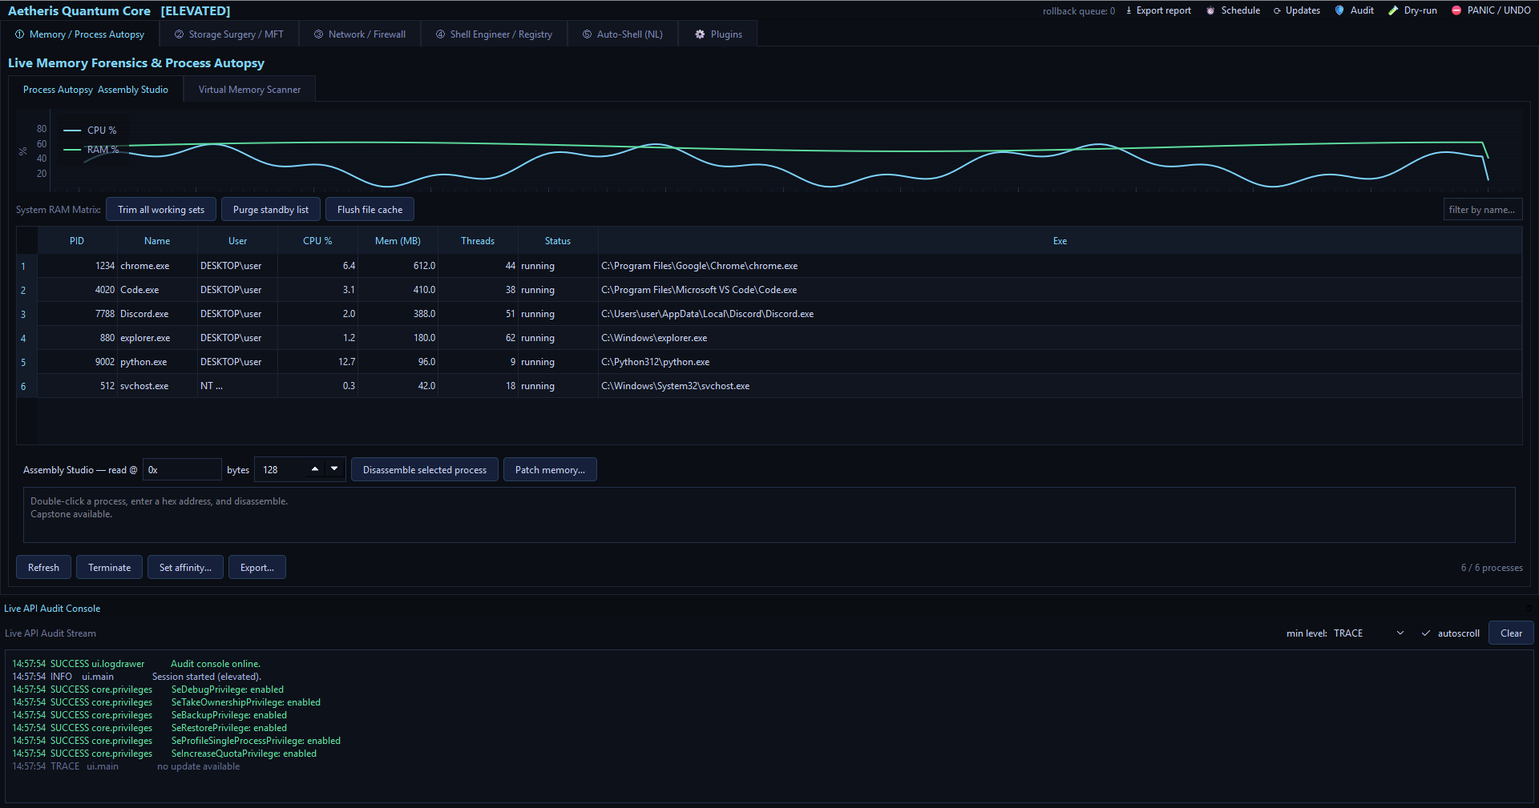
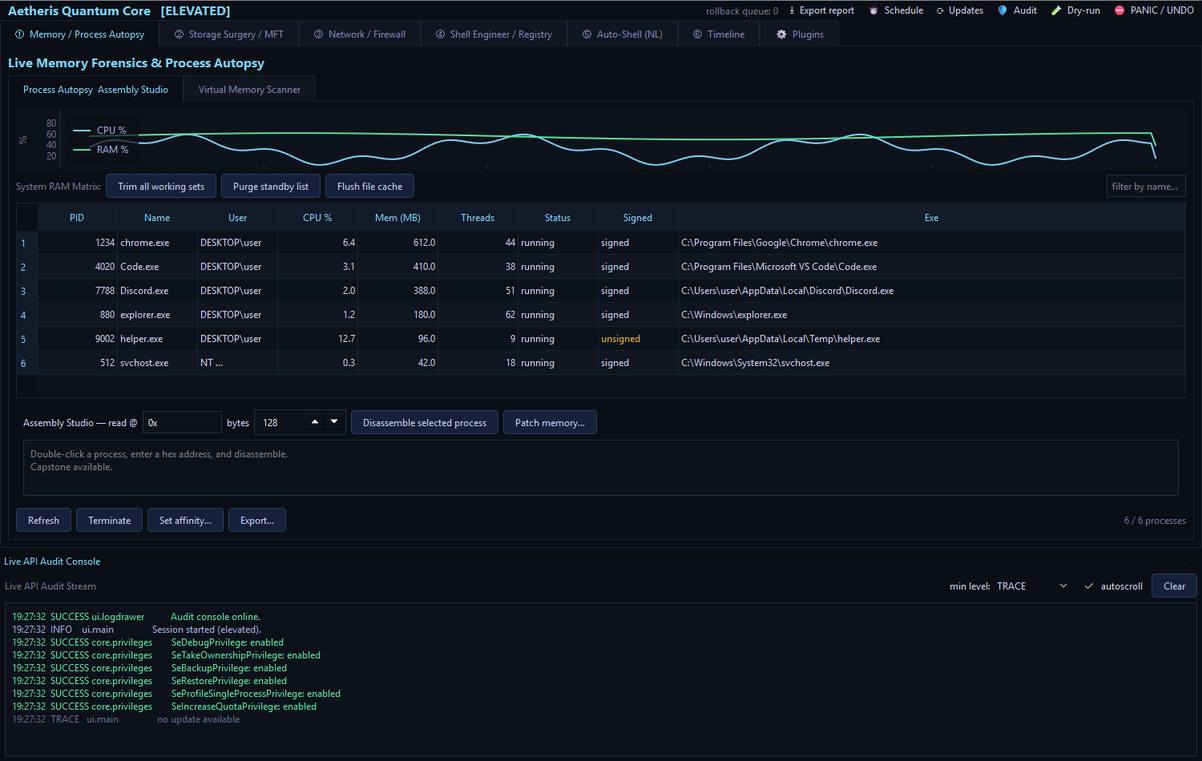
Refresh README + all screenshots for Phase 1-3 (8 shots + new features)
make_screenshots.py rewritten for the current UI: the Timeline tab shifted the
indices (Plugins is now widget(6), not (5)), and there are new panels to show.
Now captures 8 shots -- Memory (live Signed column), Storage tree-map, Network,
Service & Driver Inspector (unquoted-path candidate in red), Persistence Map,
Session Timeline (state diff), Auto-Shell, Plugins v2 gallery -- and the
walkthrough GIF cycles all eight. Old 04-shell/05-autoshell/06-plugins removed
(renumbered).

README: status blurb, walkthrough grid, layout tree, tests section (185),
feature-status table, and the Trust/Plugins prose updated for the persistent
audit log, dry-run, crash reporter, signing, and the four new modules.
ARCHITECTURE module map gains signing/services/taskaudit/persistence/timeline/
crashreport.

diff --git a/docs/make_screenshots.py b/docs/make_screenshots.py
@@ -3,7 +3,7 @@
 Render the Aetheris UI to the screenshots used in the README.
 
 Renders the *real* widgets (native Windows platform, so fonts render) but feeds
-each data-bearing tab **representative, non-identifying** data — so the images
+each data-bearing tab **representative, non-identifying** data -- so the images
 show the genuine app without leaking real process paths, usernames, or remote
 IPs from the machine that generated them.
 
@@ -14,9 +14,9 @@ The window is rendered off the visible desktop so nothing pops up on screen.
 """
 from __future__ import annotations
 
+import math
 import os
 import sys
-import math
 import time
 from pathlib import Path
 
@@ -28,12 +28,16 @@ sys.path.insert(0, str(REPO))
 OUT = REPO / "docs" / "screenshots"
 OUT.mkdir(parents=True, exist_ok=True)
 
-from PyQt6.QtWidgets import QApplication, QTabWidget          # noqa: E402
 from PyQt6.QtCore import QEventLoop                            # noqa: E402
-from aetheris.ui.mainwindow import MainWindow                 # noqa: E402
+from PyQt6.QtWidgets import QApplication, QTabWidget          # noqa: E402
+
+from aetheris.core import timeline as tl                      # noqa: E402
+from aetheris.core.persistence import PersistenceEntry        # noqa: E402
+from aetheris.core.services import ServiceInfo                # noqa: E402
 from aetheris.forensics.processes import ProcessInfo          # noqa: E402
 from aetheris.network.connections import Connection           # noqa: E402
 from aetheris.storage import mft                              # noqa: E402
+from aetheris.ui.mainwindow import MainWindow                 # noqa: E402
 
 app = QApplication(sys.argv)
 w = MainWindow()
@@ -56,10 +60,19 @@ def shot(name: str) -> None:
     print(f"saved {name}: {pm.width()}x{pm.height()}")
 
 
+def _inner_tab(widget, label: str) -> None:
+    """Switch a tab's inner QTabWidget to the sub-panel named ``label``."""
+    for tw in widget.findChildren(QTabWidget):
+        for i in range(tw.count()):
+            if tw.tabText(i) == label:
+                tw.setCurrentIndex(i)
+                return
+
+
 def main() -> None:
     pump(1.5)
 
-    # 1) Memory / Process Autopsy
+    # 1) Memory / Process Autopsy (note the live Authenticode "Signed" column)
     mem = w.tabs.widget(0)
     mem._timer.stop()
     mem._populate([
@@ -74,7 +87,8 @@ def main() -> None:
                     2.0, 388 * 2**20, 51, "running", "on", "on", "signed"),
         ProcessInfo(880, "explorer.exe", "DESKTOP\\user", r"C:\Windows\explorer.exe",
                     1.2, 180 * 2**20, 62, "running", "on", "on", "signed"),
-        ProcessInfo(9002, "python.exe", "DESKTOP\\user", r"C:\Python312\python.exe",
+        ProcessInfo(9002, "helper.exe", "DESKTOP\\user",
+                    r"C:\Users\user\AppData\Local\Temp\helper.exe",
                     12.7, 96 * 2**20, 9, "running", "on", "off", "unsigned"),
         ProcessInfo(512, "svchost.exe", "NT AUTHORITY\\SYSTEM",
                     r"C:\Windows\System32\svchost.exe",
@@ -105,12 +119,9 @@ def main() -> None:
         for name, size in kids:
             recs.append(R(idx, True, False, name, size, top_idx)); idx += 1
     st._show_mft(recs); st._build_treemap()
-    for tw in st.findChildren(QTabWidget):
-        for i in range(tw.count()):
-            if tw.tabText(i) in ("Tree-map", "Raw MFT Scan"):
-                tw.setCurrentIndex(i)
+    _inner_tab(st, "Tree-map")
     st.treemap.resize(1400, 560); st.treemap._relayout()
-    w.tabs.setCurrentIndex(1); pump(0.4); shot("02-storage-treemap.png")
+    w.tabs.setCurrentIndex(1); pump(0.5); shot("02-storage-treemap.png")
 
     # 3) Network
     net = w.tabs.widget(2)
@@ -134,26 +145,90 @@ def main() -> None:
     for i in range(120):
         net.throughput.push({"up": 40 + 20 * math.sin(i / 8),
                              "down": 420 + 120 * math.sin(i / 10)})
-    w.tabs.setCurrentIndex(2); pump(0.4); shot("03-network.png")
+    w.tabs.setCurrentIndex(2); pump(0.5); shot("03-network.png")
 
-    # 4) Shell / Registry
-    w.tabs.setCurrentIndex(3); pump(0.3); shot("04-shell.png")
+    # 4) Shell -> Services & Drivers (unquoted-path privesc finder in red)
+    shell = w.tabs.widget(3)
+    shell._services = [
+        ServiceInfo("Dnscache", "DNS Client", r"C:\Windows\System32\svchost.exe",
+                    r"C:\Windows\System32\svchost.exe", "auto", "service",
+                    "NT AUTHORITY\\NetworkService", "running", "signed", False),
+        ServiceInfo("AppUpdater", "App Updater", r'C:\Program Files\My App\upd.exe',
+                    r'C:\Program Files\My App\upd.exe', "auto", "service",
+                    "LocalSystem", "running", "signed", True),   # unquoted path
+        ServiceInfo("HelperSvc", "Vendor Helper",
+                    r"C:\Users\user\AppData\Local\Temp\helper.exe",
+                    r"C:\Users\user\AppData\Local\Temp\helper.exe", "auto", "service",
+                    "LocalSystem", "stopped", "unsigned", False),
+        ServiceInfo("disk", "Disk Driver", r"C:\Windows\System32\drivers\disk.sys",
+                    r"C:\Windows\System32\drivers\disk.sys", "boot", "driver", "",
+                    "loaded", "signed", False),
+        ServiceInfo("nvlddmkm", "NVIDIA Kernel", r"C:\Windows\System32\drivers\nvlddmkm.sys",
+                    r"C:\Windows\System32\drivers\nvlddmkm.sys", "manual", "driver", "",
+                    "not loaded", "signed", False),
+    ]
+    _inner_tab(shell, "Services & Drivers")
+    shell._apply_svc_filter()
+    w.tabs.setCurrentIndex(3); pump(0.4); shot("04-services.png")
 
-    # 5) Auto-Shell
+    # 5) Shell -> Persistence Map (unified autostart view)
+    shell._pm = [
+        PersistenceEntry("Run", "OneDrive",
+                         r"C:\Users\user\AppData\Local\Microsoft\OneDrive\OneDrive.exe /background",
+                         r"HKCU\...\CurrentVersion\Run",
+                         r"C:\Users\user\AppData\Local\Microsoft\OneDrive\OneDrive.exe",
+                         "signed", True),
+        PersistenceEntry("Startup", "Spotify",
+                         r"C:\Users\user\AppData\Roaming\Spotify\Spotify.exe",
+                         "Startup folder (user)",
+                         r"C:\Users\user\AppData\Roaming\Spotify\Spotify.exe", "signed", True),
+        PersistenceEntry("Service", "AppUpdater", r'"C:\Program Files\My App\upd.exe"',
+                         "Service (auto)", r"C:\Program Files\My App\upd.exe", "signed", True),
+        PersistenceEntry("Task", "\\Vendor\\SyncTask",
+                         r"C:\Users\user\AppData\Local\Temp\sync.exe",
+                         r"\Vendor\SyncTask", r"C:\Users\user\AppData\Local\Temp\sync.exe",
+                         "unsigned", True),
+    ]
+    _inner_tab(shell, "Persistence Map")
+    shell._apply_pm_filter()
+    w.tabs.setCurrentIndex(3); pump(0.4); shot("05-persistence.png")
+
+    # 6) Timeline -> state diff between two session snapshots
+    tlab = w.tabs.widget(5)
+    now = time.time()
+    tlab._timeline.add(tl.Snapshot(
+        0, now - 300,
+        processes={(1234, "chrome.exe"), (4020, "Code.exe"), (880, "explorer.exe")},
+        listening={("tcp", 135), ("tcp", 445)},
+        connections={"142.250.72.206:443"},
+        autoruns={"OneDrive @ HKCU\\Run"}))
+    tlab._timeline.add(tl.Snapshot(
+        1, now,
+        processes={(4020, "Code.exe"), (880, "explorer.exe"), (9002, "powershell.exe")},
+        listening={("tcp", 135), ("tcp", 445), ("tcp", 5985)},
+        connections={"142.250.72.206:443", "185.199.108.153:443"},
+        autoruns={"OneDrive @ HKCU\\Run", "SyncTask @ \\Vendor\\SyncTask"}))
+    tlab._refresh_pickers()
+    tlab.combo_a.setCurrentIndex(0)
+    tlab.combo_b.setCurrentIndex(1)
+    tlab._diff()
+    w.tabs.setCurrentIndex(5); pump(0.4); shot("06-timeline.png")
+
+    # 7) Auto-Shell
     aut = w.tabs.widget(4)
     aut.input.setText("Terminate all background processes utilizing more than "
                       "350MB of system memory right now.")
     aut._compile()
-    w.tabs.setCurrentIndex(4); pump(0.3); shot("05-autoshell.png")
+    w.tabs.setCurrentIndex(4); pump(0.3); shot("07-autoshell.png")
 
-    # 6) Plugins - run the live-gauges widget plugin so the shot shows a widget
-    plugins_tab = w.tabs.widget(5)
+    # 8) Plugins (v2 gallery: trust + declared permission scope)
+    plugins_tab = w.tabs.widget(6)
     for i in range(plugins_tab.list.count()):
-        if plugins_tab.list.item(i).text() == "system-gauges":
+        if plugins_tab.list.item(i).text().startswith("system-gauges"):
             plugins_tab.list.setCurrentRow(i)
             plugins_tab._run()
             break
-    w.tabs.setCurrentIndex(5); pump(0.5); shot("06-plugins.png")
+    w.tabs.setCurrentIndex(6); pump(0.5); shot("08-plugins.png")
 
     if "--gif" in sys.argv:
         _build_gif()
@@ -167,14 +242,15 @@ def _build_gif() -> None:
         print("Pillow not installed; skipping GIF")
         return
     order = ["01-memory.png", "02-storage-treemap.png", "03-network.png",
-             "04-shell.png", "05-autoshell.png", "06-plugins.png"]
+             "04-services.png", "05-persistence.png", "06-timeline.png",
+             "07-autoshell.png", "08-plugins.png"]
     imgs = []
     for f in order:
         im = Image.open(OUT / f).convert("RGB")
         w2 = 1100
         imgs.append(im.resize((w2, int(im.height * w2 / im.width)), Image.LANCZOS))
     imgs[0].save(OUT / "walkthrough.gif", save_all=True, append_images=imgs[1:],
-                 duration=2200, loop=0, optimize=True)
+                 duration=2000, loop=0, optimize=True)
     print("saved walkthrough.gif")
 
 

diff --git a/README.md b/README.md
@@ -6,12 +6,19 @@ natural-language automation shell into one dashboard. It targets power users,
 security researchers, and systems administrators operating on machines they
 control.
 
-> **Status: working v0.1.** The full decoupled architecture, the safety shield,
-> the live audit console, and functional cores for every module are in place and
-> exercised by the test suite. Optional native engines (MemProcFS, capstone,
-> keystone) degrade gracefully with an install hint when absent; the one
-> optional data drop-in (a GeoLite2 DB for city-level GeoIP) is clearly labelled
-> in *Feature status* below rather than pretending to be complete.
+> **Status: v0.1.4.** A strictly decoupled architecture, a persistent
+> tamper-evident (hash-chained) audit log, a global **dry-run** rehearsal mode,
+> and the Omega-Rollback safety shield back every module. Recent additions: a
+> **Service & Driver Inspector** (with an unquoted-service-path privesc finder),
+> a **Scheduled-Task auditor**, a unified **Startup / Persistence Map**, a
+> session **Timeline / state-diff**, real **Authenticode** verification, a
+> **Plugin API v2** (declared permissions + a hash trust-list), and a scrubbed
+> **crash reporter**. Every write is confirm-gated, reversible via PANIC, audited,
+> and dry-run-aware; long/native work runs off the UI thread. The pure layers
+> pass `mypy --strict` + `ruff` and are covered by 185 tests. Optional native
+> engines (MemProcFS, capstone, keystone) degrade gracefully; the one optional
+> data drop-in (a GeoLite2 DB for city-level GeoIP) is labelled in *Feature
+> status* below rather than pretending to be complete.
 
 ## Walkthrough
 
@@ -22,9 +29,10 @@ place of live machine data):
 
 | | |
 |---|---|
-| ![Memory](docs/screenshots/01-memory.png) **① Memory / Process Autopsy** — process table with a live Authenticode **signature** column, CPU/RAM chart, Assembly Studio, and the audit console. | ![Storage](docs/screenshots/02-storage-treemap.png) **② Storage / MFT** — squarified space-utilization tree-map with drill-down. |
-| ![Network](docs/screenshots/03-network.png) **③ Network / Firewall** — socket→process table with GeoIP + per-process B/s columns, live throughput chart, "Nuke" isolation. | ![Shell](docs/screenshots/04-shell.png) **④ Shell / Registry** — snapshot-diff suite, privacy toggles, cascading menus, and the Autoruns manager. |
-| ![Auto-Shell](docs/screenshots/05-autoshell.png) **⑤ Auto-Shell** — plain-English → reviewed PowerShell with an intent/risk label and a mandatory confirm gate. | ![Plugins](docs/screenshots/06-plugins.png) **⚙ Plugins** — text + widget extension tools (here the live-gauges widget), runnable in-app and via `aetheris-cli`. |
+| ![Memory](docs/screenshots/01-memory.png) **① Memory / Process Autopsy** — process table with a live Authenticode **Signed** column (unsigned in amber), CPU/RAM chart, Assembly Studio, and the audit console. | ![Storage](docs/screenshots/02-storage-treemap.png) **② Storage / MFT** — squarified space-utilization tree-map with drill-down. |
+| ![Network](docs/screenshots/03-network.png) **③ Network / Firewall** — socket→process table with GeoIP + per-process B/s columns, live throughput chart, "Nuke" isolation. | ![Services](docs/screenshots/04-services.png) **④ Service & Driver Inspector** — services + kernel drivers with signed/loaded status and **unquoted-service-path** privesc candidates (red); reversible start/stop/start-type. |
+| ![Persistence](docs/screenshots/05-persistence.png) **⑤ Persistence Map** — one screen unifying Run/Startup + auto/boot services + logon/boot tasks; reversible enable/disable. | ![Timeline](docs/screenshots/06-timeline.png) **⑥ Session Timeline** — periodic state snapshots; diff *any two* points (processes/ports/connections/autoruns added·removed). |
+| ![Auto-Shell](docs/screenshots/07-autoshell.png) **⑦ Auto-Shell** — plain-English → reviewed PowerShell with an intent/risk label and a mandatory confirm gate. | ![Plugins](docs/screenshots/08-plugins.png) **⚙ Plugins v2** — text + widget tools with a declared **permission scope** and a hash **trust** state; untrusted runs are gated. |
 
 Regenerate with `python docs/make_screenshots.py --gif`. For a live, auto-
 cycling demo to screen-record, run `python docs/demo_mode.py`. The layered
@@ -34,18 +42,20 @@ design is documented in [`docs/ARCHITECTURE.md`](docs/ARCHITECTURE.md).
 
 ```
 aetheris/
-├── core/          privileges, native bindings, log bus, hash-chained audit, dry-run, Omega Rollback, registry, settings, reports
-├── forensics/     process autopsy, RAM matrix, Capstone/Keystone assembly studio
-├── storage/       raw MFT parser, SHA-256 dedupe / ghost scan, guarded obliterator
-├── network/       socket→process interceptor, per-process B/s, GeoIP, firewall isolation
+├── core/          privileges, native bindings, Authenticode signing, hash-chained audit,
+│                  dry-run, Omega Rollback, registry, services, taskaudit, persistence,
+│                  timeline, plugins, scheduler, settings, reports, crash reporter
+├── forensics/     process autopsy (+ signature), RAM matrix, Capstone/Keystone studio
+├── storage/       raw MFT parser, SHA-256 dedupe / ghost scan, guarded obliterator, handle strip
+├── network/       socket→process interceptor, per-process B/s (ETW), GeoIP, firewall isolation
 ├── automation/    natural-language → reviewed PowerShell compiler
-├── plugins/       built-in extension tools (top-memory, public-connections, …)
-├── cli.py         headless forensic capture (`aetheris-cli`)
+├── plugins/       built-in extension tools (top-memory, public-connections, …) + permissions
+├── cli.py         headless forensic capture (`aetheris-cli`, also `<exe> cli …`)
 └── ui/            PyQt6 window, theme, log drawer, telemetry charts, module tabs
-run.py             entry point + UAC elevation bootstrap
-pyproject.toml     packaging + `aetheris` / `aetheris-cli` entry points
+run.py             entry point + UAC elevation bootstrap + headless CLI dispatch
+pyproject.toml     packaging + `aetheris` / `aetheris-cli` entry points; ruff + mypy --strict
 installer/         one-click installer, bootstrap, Inno Setup, exe build + signing
-tests/             pytest suite (121 tests) for the cores
+tests/             pytest suite (185 tests) for the cores + pytest-qt UI-thread tests
 ```
 
 ## Install & run
@@ -86,7 +96,7 @@ features and degrade gracefully when absent (the UI tells you what's missing).
 
 ```powershell
 pip install .[test]
-pytest                                 # 121 tests over the cores
+pytest                                 # 185 tests over the cores
 ```
 
 The suite (`tests/`) regression-guards the deterministic cores: Auto-Shell
@@ -97,11 +107,17 @@ with no PyQt6 installed), registry diffing, dedupe, the memory hex formatter,
 per-process bandwidth attribution math, GeoIP field extraction (plus a real
 GeoLite2 lookup when a DB is present), the cascading-menu spec parser, the
 settings store and report serializers, the **tamper-evident hash-chained audit
-log**, **global dry-run** enforcement (a real op that must not mutate), the
-**Omega-Rollback PANIC round-trip**, the committed app-icon structure, and
-(Windows-only) the ETW sampler contract **and its TcpIp opcode/payload
-attribution** (via synthetic-record injection), the Restart-Manager lockers, and
-the live handle-strip round-trip. GitHub Actions (`.github/workflows/ci.yml`) runs
+log** (+ file persistence and tamper detection), **global dry-run** enforcement
+across terminate / Auto-Shell / registry / firewall / obliterate, the
+**Omega-Rollback PANIC round-trip**, the **service / task / persistence** models
+(unquoted-path detector, task suspicion heuristics, reversible-toggle dispatch),
+the **timeline state-diff**, **plugin permissions + trust lifecycle**, the crash
+reporter's scrubbing, and the obliterator guardrail; plus **pytest-qt** UI-thread
+tests that prove blocking native calls run off the event loop. Windows-only tests
+cover Authenticode signing (WinVerifyTrust + catalog), the ETW sampler **and its
+TcpIp opcode/payload attribution** (synthetic-record injection), the shared-handle
+restypes, the Restart-Manager lockers, and the live handle-strip round-trip.
+GitHub Actions (`.github/workflows/ci.yml`) runs
 it on Windows against Python 3.11 and 3.12 on every push/PR; a tag push runs
 `release.yml`, which builds `AetherisQuantumCore.exe`, **headlessly smoke-launches
 it**, compiles `AetherisSetup.exe`, and attaches both to a GitHub Release.
@@ -138,8 +154,13 @@ This suite is built to be **auditable and reversible**, not stealthy:
   address, handle op, and destructive action streams to the bottom drawer with
   return codes and a human-readable translation — and each event is linked into
   a **SHA-256 hash chain** (`core/audit.py`), so any later edit, deletion, or
-  reorder of the trail is detectable. The toolbar **🛡 Audit** button re-verifies
-  the chain on demand.
+  reorder of the trail is detectable. The chain is also **persisted** to
+  `%APPDATA%\AetherisQuantumCore\audit\session-<ts>.jsonl` (on by default) so a
+  forensic record survives the app closing; the toolbar **🛡 Audit** button
+  re-verifies the chain on demand, and `verify_audit_log()` re-checks a file.
+- **Crash reporter.** An unhandled exception writes a **scrubbed** crash file to
+  `%APPDATA%\…\crashes\` — the error + traceback only (no memory or process
+  data), with the home path and account name redacted so it's safe to share.
 
 The suite does **not** include a credential-extraction path against
 `HKLM\SAM` / `HKLM\SECURITY`; the registry tools operate on ordinary hives.
@@ -160,10 +181,16 @@ The suite does **not** include a credential-extraction path against
 
 ## Plugins & headless CLI
 
-- **Plugins** — drop a `*.py` in `%APPDATA%\AetherisQuantumCore\plugins` that
-  exposes a `PLUGIN`. Two kinds: **text** tools (over live process/connection
-  snapshots — run in the GUI *and* headlessly) and **widget** tools (return a
-  live QWidget, GUI-only). Built-ins: top-memory, public-connections,
+- **Plugins (v2)** — drop a `*.py` in `%APPDATA%\AetherisQuantumCore\plugins`
+  that exposes a `PLUGIN` (and, optionally, a `PERMISSIONS` list). Two kinds:
+  **text** tools (over live process/connection snapshots — run in the GUI *and*
+  headlessly) and **widget** tools (return a live QWidget, GUI-only). The gallery
+  shows each plugin's **declared permission scope** and a **trust** state — built
+  in, or (for user plugins) untrusted → trusted (once you record its hash) →
+  modified (tamper-evident if the file later changes); running an untrusted or
+  modified plugin is confirm-gated. This is **disclosure + provenance, not a
+  sandbox** — Python can't contain a plugin, so the gate discloses scope rather
+  than restricting it. Built-ins: top-memory, public-connections,
   listening-ports, and a live-gauges widget. They appear in the **⚙ Plugins**
   tab.
 - **Scheduled capture** — the toolbar **⏱ Schedule…** registers a Windows
@@ -235,8 +262,10 @@ attaches everything to the GitHub Release automatically.
 | ① Memory/Process | psutil autopsy, **Authenticode signature check** (WinVerifyTrust + catalog, cached), ASLR/DEP mitigation query (ASLR live; DEP is x64-permanent so it reports only for 32-bit procs), working-set trim, standby purge, file-cache flush, Capstone disasm of live memory, Keystone patch, **Virtual Memory Scanner** (live `VirtualQueryEx` region maps + `ReadProcessMemory` hex view), **live CPU/RAM telemetry chart (pyqtgraph)** | **MemProcFS** physical-RAM virtualization / hidden-process & physical reads — needs the `memprocfs` lib **and** an acquisition driver; not exercised by CI |
 | ② Storage/MFT | NTFS binary parse w/ **full $MFT run-list walk** (fragmented MFTs), fixups, **directory-tree reconstruction + squarified tree-map canvas** (drill-down), SHA-256 dedupe, ghost scan, guarded obliterator, **Restart-Manager lockers + raw handle stripping** (`NtQuerySystemInformation` handle table → `DuplicateHandle(DUPLICATE_CLOSE_SOURCE)`, timeout-guarded name queries) | — |
 | ③ Network | socket→process map, system bandwidth, **live throughput chart (pyqtgraph)**, INetFwPolicy2 isolate/deisolate w/ rollback, **offline IP geolocation** (geoip2 + GeoLite2 `.mmdb`; field extraction is unit-tested, and an opt-in test performs a real-DB lookup — `81.2.69.160 → GB · London` — when a GeoLite2 DB is present; one-command enable via `docs/fetch_geoip.py`) | **live per-process TCP B/s via ETW** — a real-time kernel **SystemTraceProvider** session (`NETWORK_TCPIP`) consuming classic `TcpIp` send/recv events and attributing bytes to the owning PID. CI verifies the sampler lifecycle, graceful degradation without elevation, the x64 struct ABI, and — via synthetic-record injection — the send/recv-**opcode** routing + `(PID, size)` payload parse; a live smoke test verifies real end-to-end attribution when elevated with external NIC traffic (skips cleanly otherwise). Requires an elevated token; IP-Helper EStats kept as a fallback |
-| ④ Shell/Registry | Regshot-style snapshot diff (Markdown/structured/history), reversible privacy toggles, DiagTrack disable, context-menu editor, **multi-level cascading submenu builder**, **Autoruns manager** (Run/RunOnce + Startup folders; reversible enable/disable) | — |
+| ④ Shell/Registry | Regshot-style snapshot diff (Markdown/structured/history), reversible privacy toggles, DiagTrack disable, context-menu editor, **multi-level cascading submenu builder**, **Autoruns manager**, **Service & Driver Inspector** (signed/loaded status + an **unquoted-service-path** privesc finder; reversible start/stop/start-type), **Scheduled-Task auditor** (temp-dir/unsigned/encoded-shell/logon-persistence flags + Markdown export), **Startup / Persistence Map** (Run/Startup + auto/boot services + logon/boot tasks unified; reversible enable/disable) | — |
 | ⑤ Auto-Shell | deterministic NL→PowerShell: find/move, kill-by-memory, kill-by-name, CPU affinity, flush DNS, empty recycle bin, clear temp, restart service, largest-files — all behind a confirm gate + a refusal guard for "kill all processes"-style inputs | still deterministic (no LLM) by design |
+| ⑥ Timeline | periodic lightweight snapshots (processes, listening ports, connections, autoruns); **diff any two points** in the session (added·removed), registry-diff-style table; pairs with the persistent audit log | — |
+| ⚙ Plugins v2 | text + widget tools (built-in + user `*.py`), runnable in-app and via `aetheris-cli`; each declares a **permission scope** and carries a **trust** state (built-in / trusted / modified / untrusted, via a hash trust-list); untrusted runs are confirm-gated — **disclosure + provenance, not a sandbox** | — |
 
 Environment-gated items report their status in the UI (e.g. the per-process
 bandwidth line shows why EStats is unavailable) or print an "install X" hint

diff --git a/docs/ARCHITECTURE.md b/docs/ARCHITECTURE.md
@@ -94,7 +94,13 @@ sequenceDiagram
 | core | `audit` | tamper-evident SHA-256 hash-chained audit log (verify + JSONL persist) |
 | core | `dryrun` | global dry-run flag; opted-in destructive ops log intent instead of acting |
 | core | `registry` | snapshot/diff (+ save/load, structured rows), privacy toggles, context-menu + cascading builder |
-| core | `settings` / `report` / `plugins` / `scheduler` | persisted prefs; CSV/JSON/HTML/MD serializers; text+widget plugin discovery; Task Scheduler integration |
+| core | `signing` | Authenticode check (WinVerifyTrust + catalog fallback), cached |
+| core | `services` | service/driver enumeration, unquoted-path finder, reversible start/stop/start-type |
+| core | `taskaudit` | scheduled-task XML parse + suspicion flags, reversible enable/disable, MD export |
+| core | `persistence` | unified Run/Startup + services + tasks map; reversible toggle dispatch |
+| core | `timeline` | session state snapshots + any-two-point diff |
+| core | `crashreport` | scrubbed last-resort excepthook crash file |
+| core | `settings` / `report` / `plugins` / `scheduler` | persisted prefs; CSV/JSON/HTML/MD serializers; text+widget plugin discovery (+ permissions/trust); Task Scheduler integration |
 | core | `autoruns` / `updater` | logon/boot autostart enum + reversible disable; self-update (manifest check → stage → apply-on-next-launch) |
 | — | `cli` / `plugins/*` | headless `aetheris-cli` capture; built-in extension tools (incl. a GUI widget plugin) |
 | forensics | `processes` / `memory` / `disasm` / `memvirt` | autopsy, RAM matrix, Capstone/Keystone, VM scanner backends |
